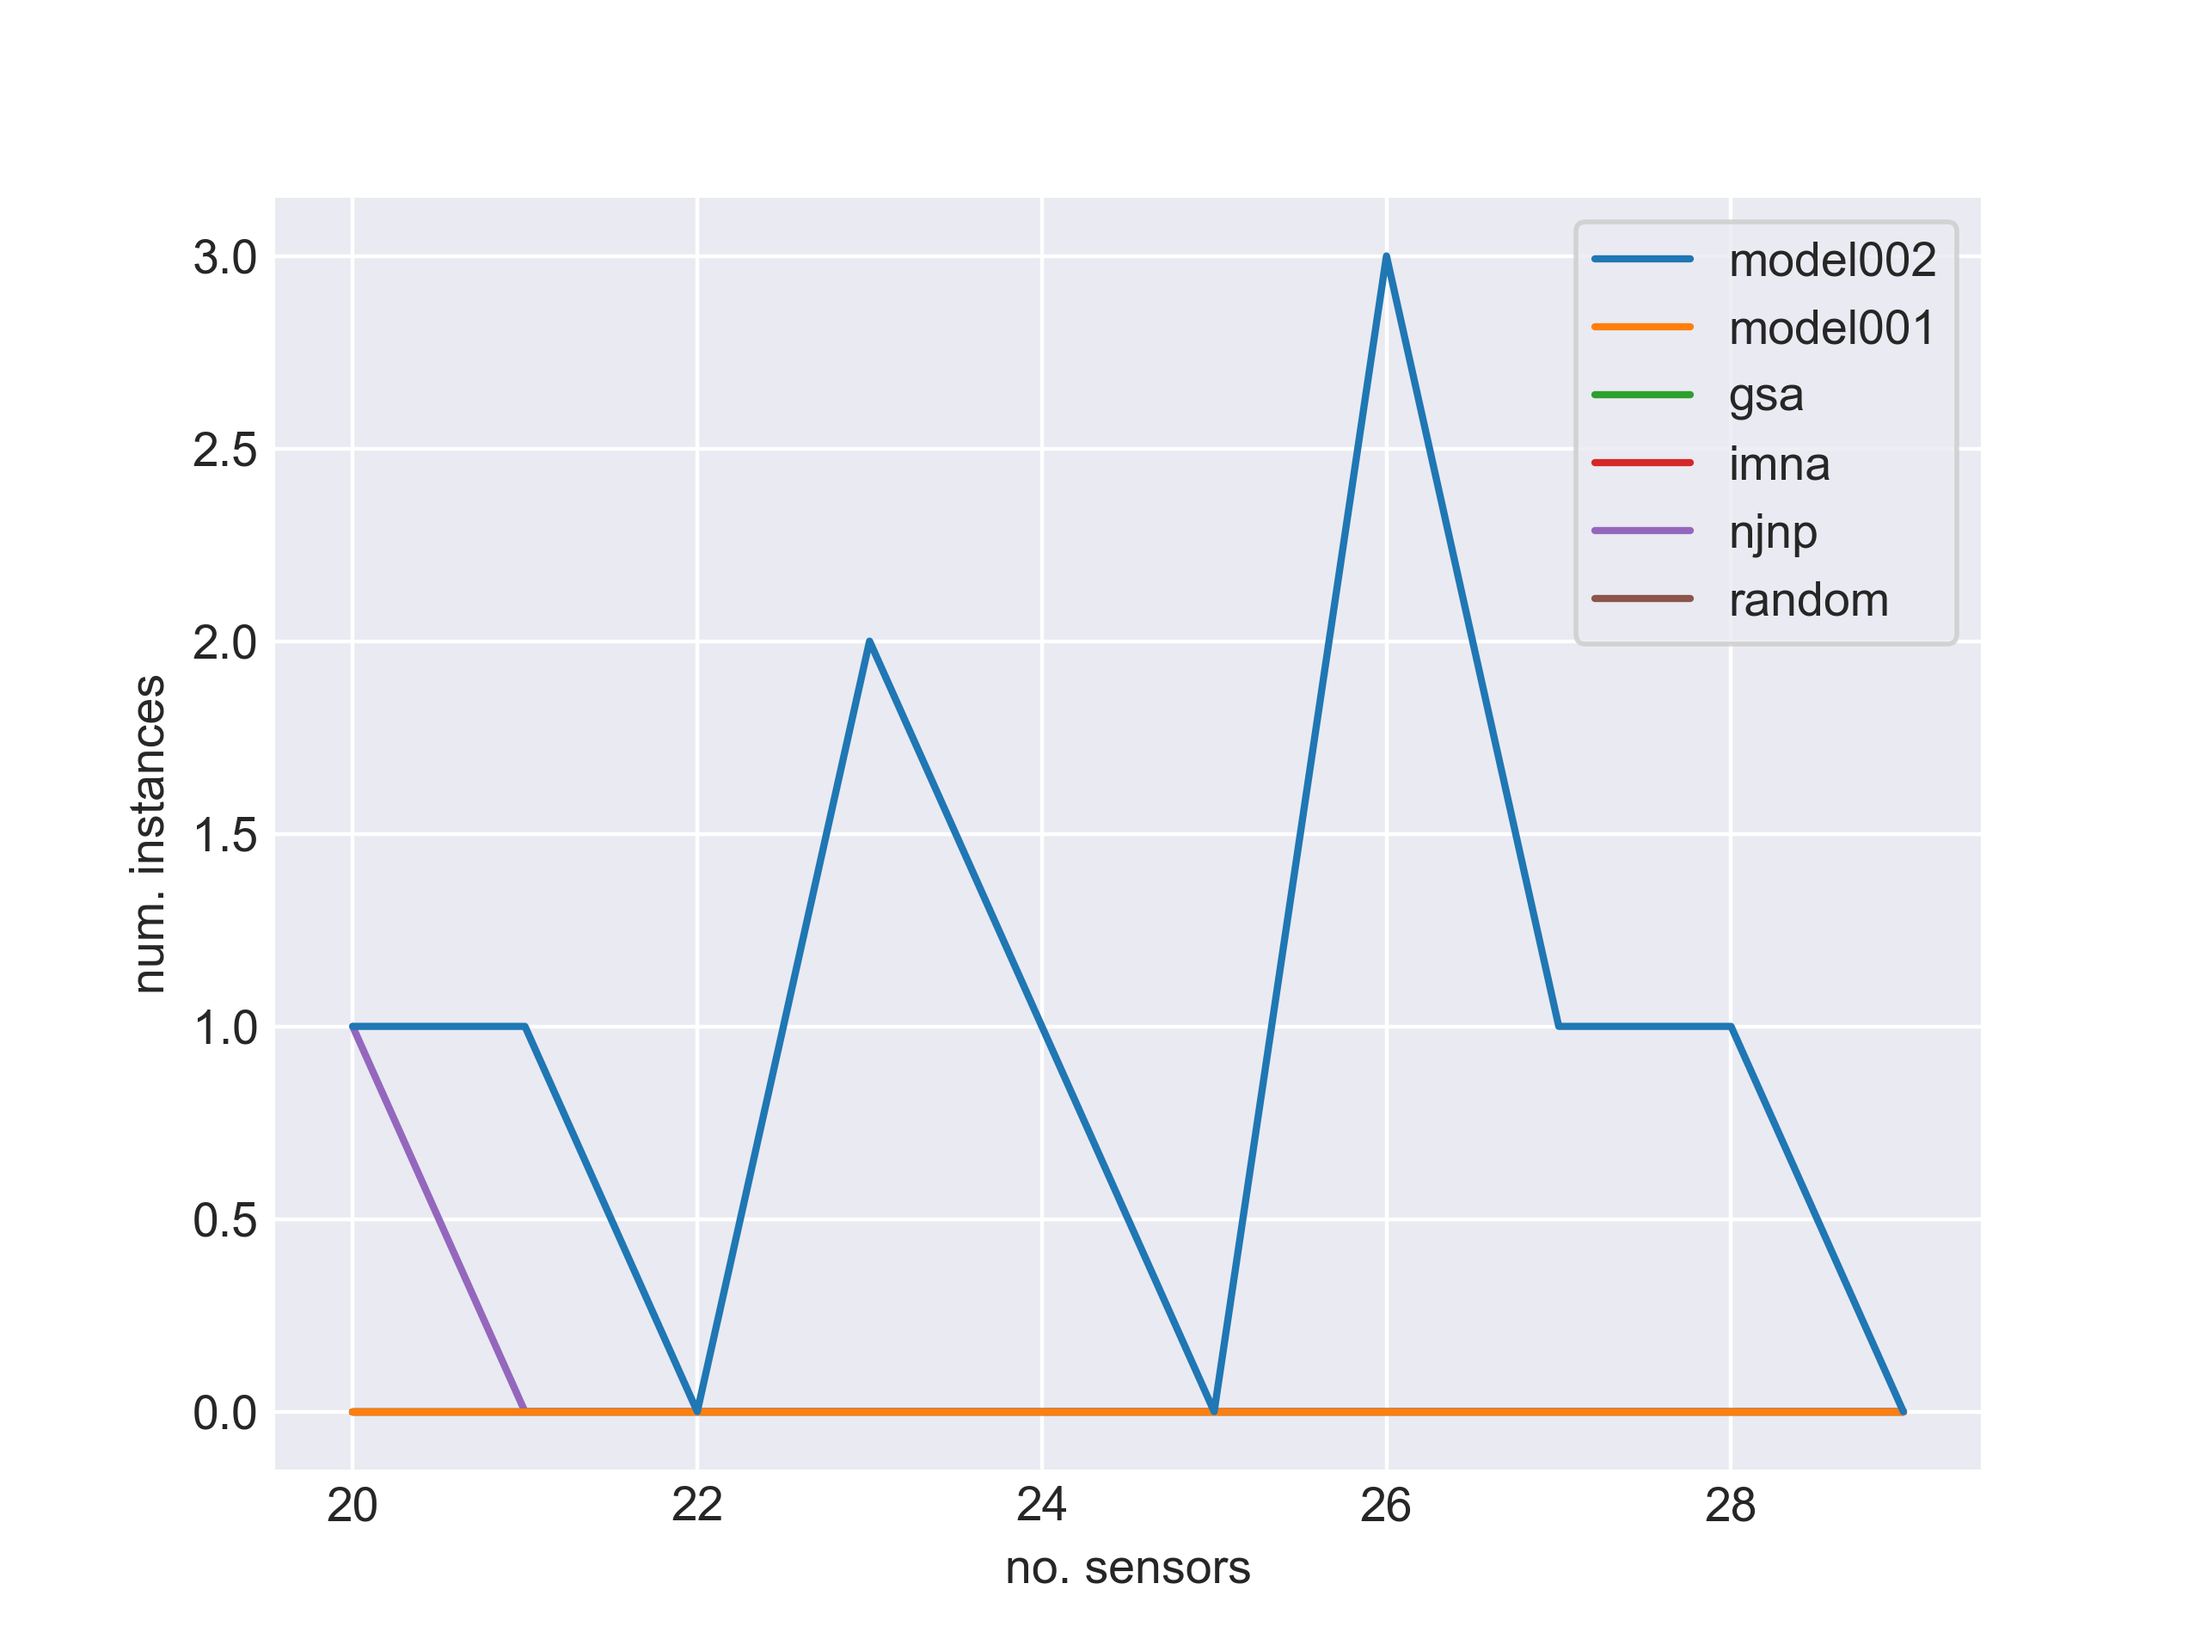
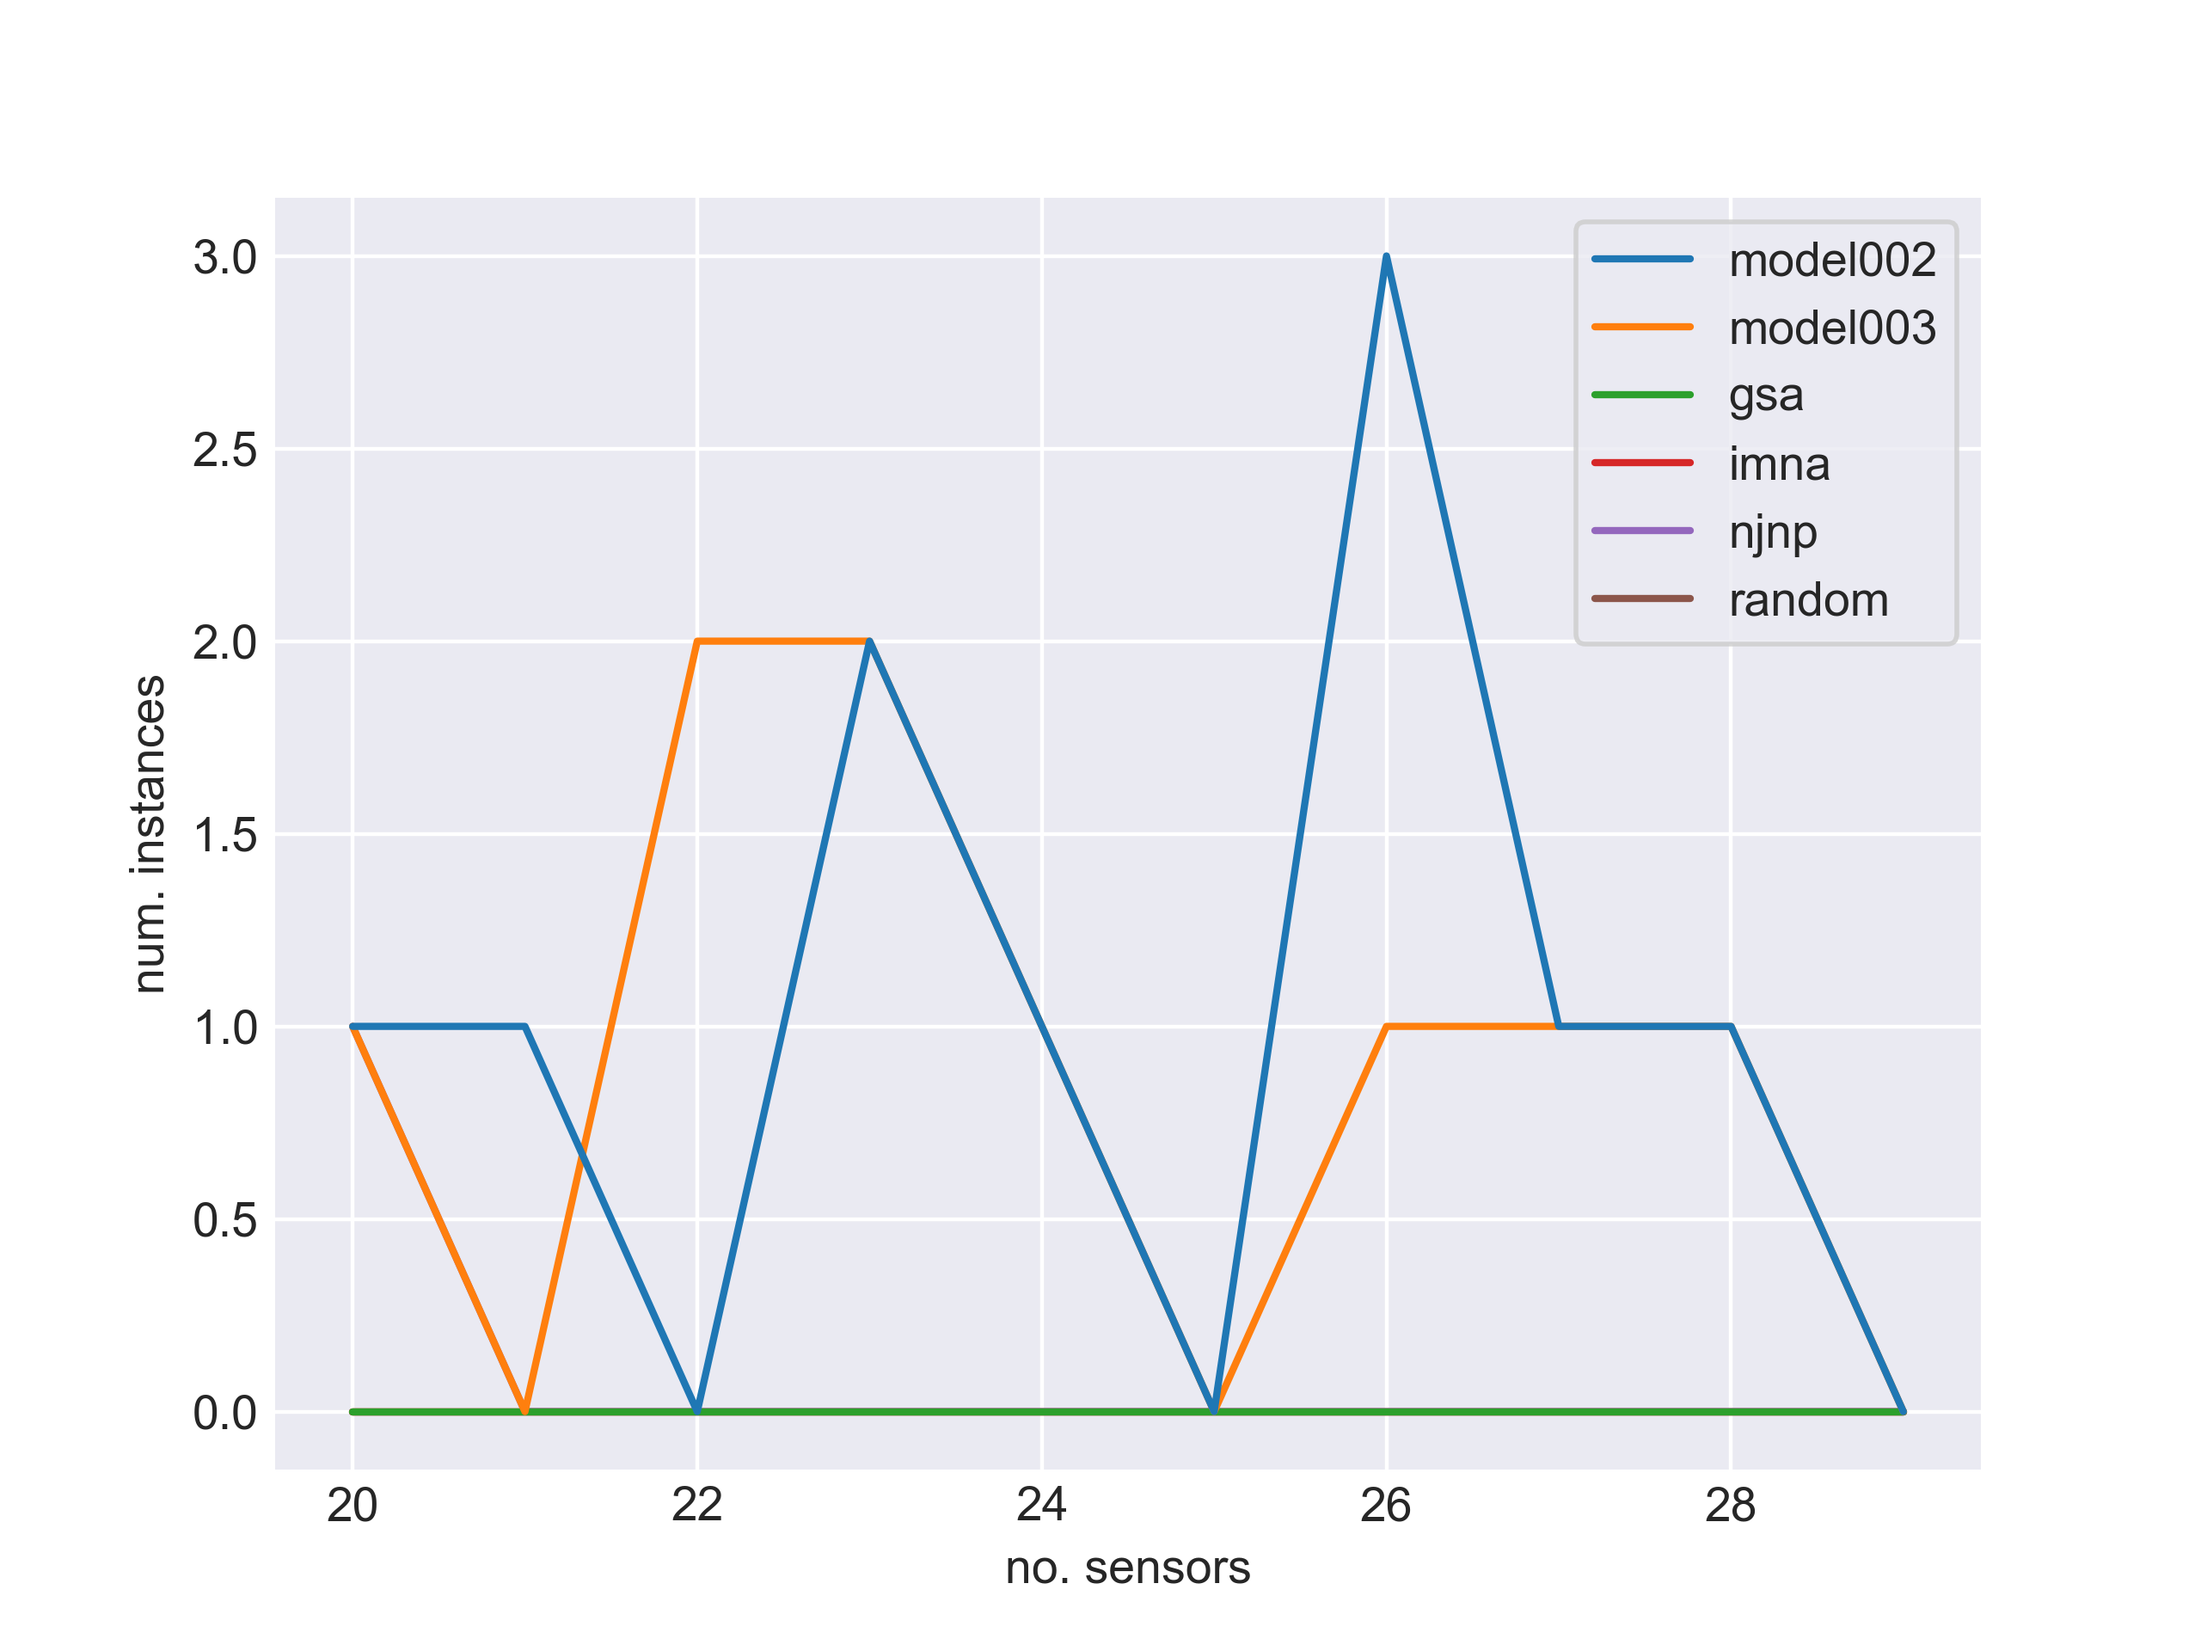
update model003

diff --git a/model003.py b/model003.py
@@ -1,0 +1,55 @@
+import sys
+sys.path.insert(0, './model003')
+from model import MCActor as MCActor003
+
+import torch.nn.functional as F
+from torch.utils.data import DataLoader
+import numpy as np
+
+sys.path.insert(0, './model002')
+from utils import device, pdump, pload
+from utils import WRSNDataset
+from utils import WrsnParameters as wp, DrlParameters as dp
+import os
+import torch
+import random_strategy
+import main as model002
+
+def run_model003(data_loader, name, save_dir, wp, max_step=1000):
+    actor = MCActor003(dp.MC_INPUT_SIZE,
+                    dp.DEPOT_INPUT_SIZE,
+                    dp.SN_INPUT_SIZE,
+                    dp.hidden_size,
+                    dp.dropout).to(device)
+
+    save_dir = os.path.join(save_dir, name)
+    checkpoint = 'model003/checkpoints/mc_20_10_3_small/0'
+    path = os.path.join(checkpoint, 'actor.pt')
+    actor.load_state_dict(torch.load(path, device))
+
+    ret = model002.validate(data_loader, model002.decision_maker, (actor,), wp=wp, max_step=max_step,
+                            render=False, verbose=False)
+    return ret
+
+if __name__ == '__main__':
+    np.set_printoptions(suppress=True)
+    torch.set_printoptions(sci_mode=False)
+    seed=123
+    torch.manual_seed(seed-1)
+    np.random.seed(seed-2)
+    dataset = WRSNDataset(20, 10, 1, 1)
+    wp.k_bit = 6000000
+    data_loader = DataLoader(dataset, 1, False, num_workers=0)
+    actor = MCActor(dp.MC_INPUT_SIZE,
+                    dp.DEPOT_INPUT_SIZE,
+                    dp.SN_INPUT_SIZE,
+                    dp.hidden_size,
+                    dp.dropout).to(device)
+
+    save_dir = os.path.join(save_dir, name)
+    checkpoint = 'model003/checkpoints/mc_20_10_3_small/4'
+    path = os.path.join(checkpoint, 'actor.pt')
+    actor.load_state_dict(torch.load(path, device))
+
+    model002.validate(data_loader, model002.decision_maker, (actor,), wp=wp, max_step=max_step,
+                            render=False, verbose=False)

diff --git a/run_ept_12.py b/run_ept_12.py
@@ -21,11 +21,11 @@ import model002
 import imna
 import njnp
 import gsa
-import model001
+import model003
 
 solvers = {
     "model002": model002.run,
-    "model001": model001.run_model001,
+    "model003": model003.run_model003,
     "gsa": gsa.run_gsa,
     "imna": imna.run_imna,
     "njnp": njnp.run_njnp,
